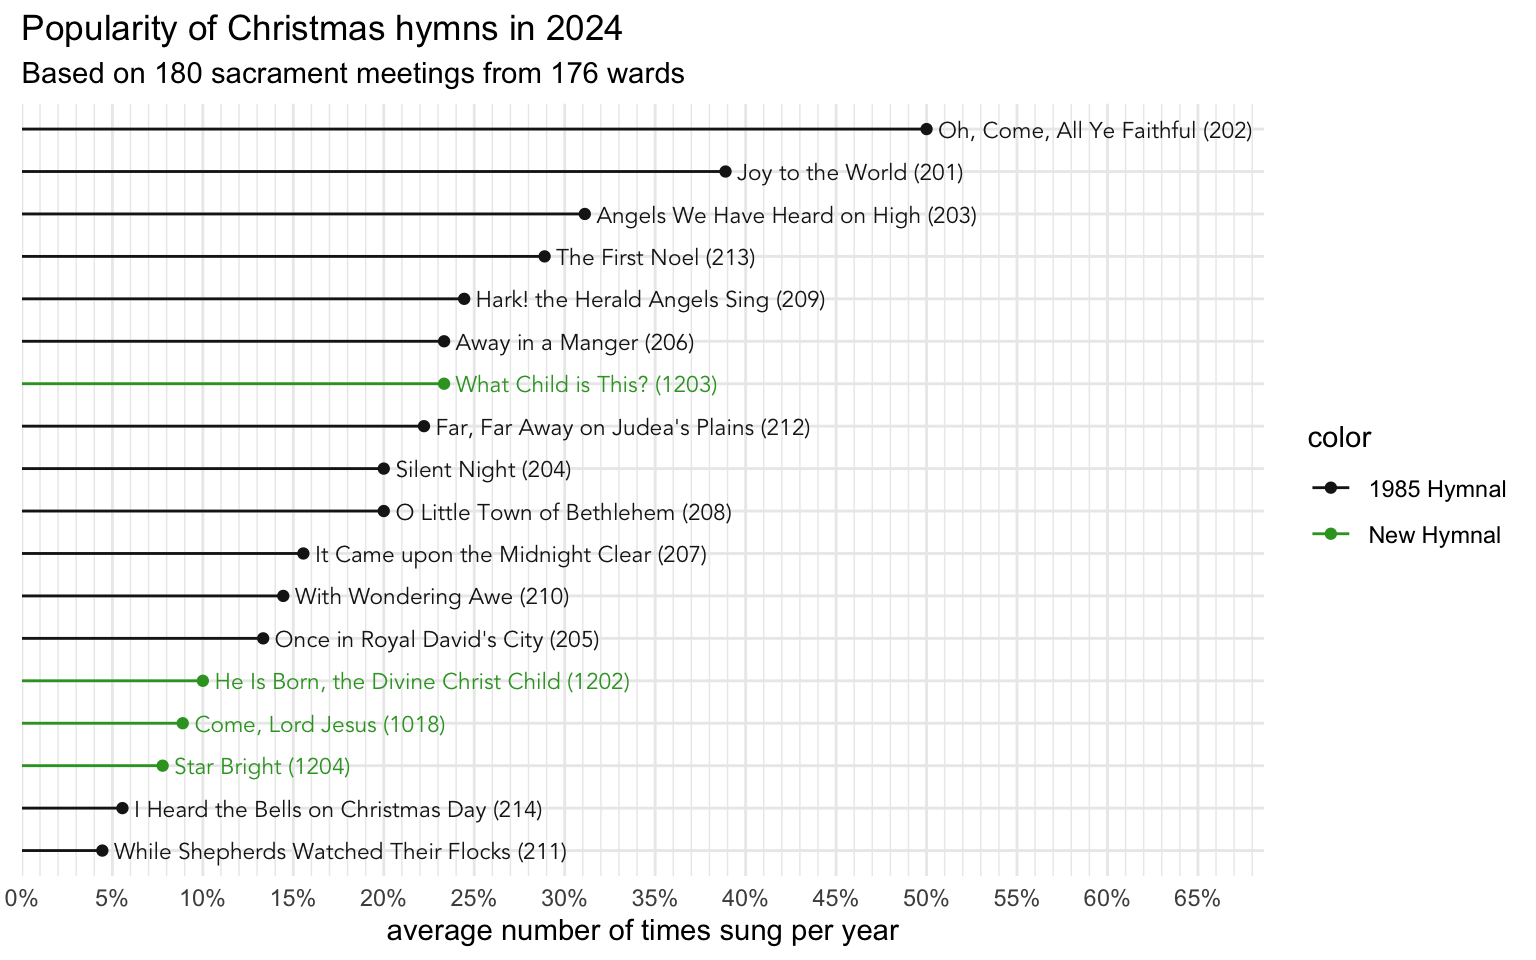
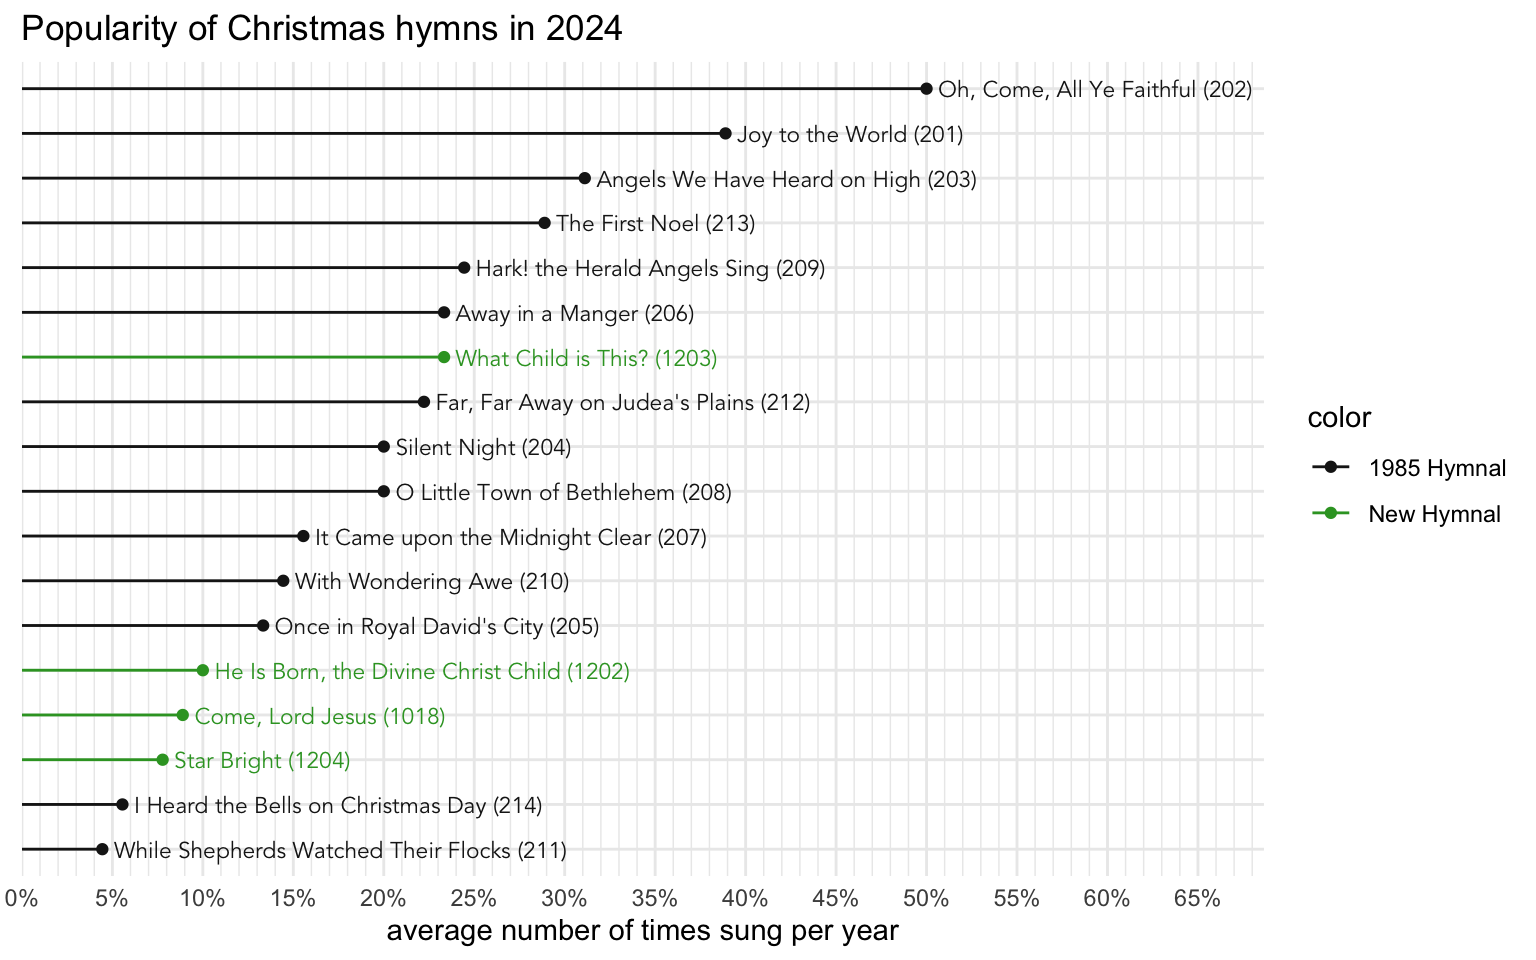
removed subtitle to hide discrepency in wards vs meetings

Changed region(s): [[0.0, 0.0625, 0.8125, 0.9062], [0.8438, 0.4062, 1.0, 0.5625], [0.0, 0.0625, 0.5, 0.0938]]

diff --git a/docs/posts/christmas2024/index.html b/docs/posts/christmas2024/index.html
@@ -231,23 +231,23 @@ gtag('config', 'G-SG4E42NZ2F', { 'anonymize_ip': true});
 <p>The following table shows the same data plotted above but in table format so you can see the exact numbers.</p>
 <div class="cell">
 <div class="cell-output-display">
-<div id="qowdzsawyw" style="padding-left:0px;padding-right:0px;padding-top:10px;padding-bottom:10px;overflow-x:auto;overflow-y:auto;width:auto;height:auto;">
-<style>#qowdzsawyw table {
+<div id="gnwmqzwmxq" style="padding-left:0px;padding-right:0px;padding-top:10px;padding-bottom:10px;overflow-x:auto;overflow-y:auto;width:auto;height:auto;">
+<style>#gnwmqzwmxq table {
   font-family: system-ui, 'Segoe UI', Roboto, Helvetica, Arial, sans-serif, 'Apple Color Emoji', 'Segoe UI Emoji', 'Segoe UI Symbol', 'Noto Color Emoji';
   -webkit-font-smoothing: antialiased;
   -moz-osx-font-smoothing: grayscale;
 }
 
-#qowdzsawyw thead, #qowdzsawyw tbody, #qowdzsawyw tfoot, #qowdzsawyw tr, #qowdzsawyw td, #qowdzsawyw th {
+#gnwmqzwmxq thead, #gnwmqzwmxq tbody, #gnwmqzwmxq tfoot, #gnwmqzwmxq tr, #gnwmqzwmxq td, #gnwmqzwmxq th {
   border-style: none;
 }
 
-#qowdzsawyw p {
+#gnwmqzwmxq p {
   margin: 0;
   padding: 0;
 }
 
-#qowdzsawyw .gt_table {
+#gnwmqzwmxq .gt_table {
   display: table;
   border-collapse: collapse;
   line-height: normal;
@@ -273,12 +273,12 @@ gtag('config', 'G-SG4E42NZ2F', { 'anonymize_ip': true});
   border-left-color: #D3D3D3;
 }
 
-#qowdzsawyw .gt_caption {
+#gnwmqzwmxq .gt_caption {
   padding-top: 4px;
   padding-bottom: 4px;
 }
 
-#qowdzsawyw .gt_title {
+#gnwmqzwmxq .gt_title {
   color: #333333;
   font-size: 125%;
   font-weight: initial;
@@ -290,7 +290,7 @@ gtag('config', 'G-SG4E42NZ2F', { 'anonymize_ip': true});
   border-bottom-width: 0;
 }
 
-#qowdzsawyw .gt_subtitle {
+#gnwmqzwmxq .gt_subtitle {
   color: #333333;
   font-size: 85%;
   font-weight: initial;
@@ -302,7 +302,7 @@ gtag('config', 'G-SG4E42NZ2F', { 'anonymize_ip': true});
   border-top-width: 0;
 }
 
-#qowdzsawyw .gt_heading {
+#gnwmqzwmxq .gt_heading {
   background-color: #FFFFFF;
   text-align: center;
   border-bottom-color: #FFFFFF;
@@ -314,13 +314,13 @@ gtag('config', 'G-SG4E42NZ2F', { 'anonymize_ip': true});
   border-right-color: #D3D3D3;
 }
 
-#qowdzsawyw .gt_bottom_border {
+#gnwmqzwmxq .gt_bottom_border {
   border-bottom-style: solid;
   border-bottom-width: 2px;
   border-bottom-color: #D3D3D3;
 }
 
-#qowdzsawyw .gt_col_headings {
+#gnwmqzwmxq .gt_col_headings {
   border-top-style: solid;
   border-top-width: 2px;
   border-top-color: #D3D3D3;
@@ -335,7 +335,7 @@ gtag('config', 'G-SG4E42NZ2F', { 'anonymize_ip': true});
   border-right-color: #D3D3D3;
 }
 
-#qowdzsawyw .gt_col_heading {
+#gnwmqzwmxq .gt_col_heading {
   color: #333333;
   background-color: #FFFFFF;
   font-size: 100%;
@@ -355,7 +355,7 @@ gtag('config', 'G-SG4E42NZ2F', { 'anonymize_ip': true});
   overflow-x: hidden;
 }
 
-#qowdzsawyw .gt_column_spanner_outer {
+#gnwmqzwmxq .gt_column_spanner_outer {
   color: #333333;
   background-color: #FFFFFF;
   font-size: 100%;
@@ -367,15 +367,15 @@ gtag('config', 'G-SG4E42NZ2F', { 'anonymize_ip': true});
   padding-right: 4px;
 }
 
-#qowdzsawyw .gt_column_spanner_outer:first-child {
+#gnwmqzwmxq .gt_column_spanner_outer:first-child {
   padding-left: 0;
 }
 
-#qowdzsawyw .gt_column_spanner_outer:last-child {
+#gnwmqzwmxq .gt_column_spanner_outer:last-child {
   padding-right: 0;
 }
 
-#qowdzsawyw .gt_column_spanner {
+#gnwmqzwmxq .gt_column_spanner {
   border-bottom-style: solid;
   border-bottom-width: 2px;
   border-bottom-color: #D3D3D3;
@@ -387,11 +387,11 @@ gtag('config', 'G-SG4E42NZ2F', { 'anonymize_ip': true});
   width: 100%;
 }
 
-#qowdzsawyw .gt_spanner_row {
+#gnwmqzwmxq .gt_spanner_row {
   border-bottom-style: hidden;
 }
 
-#qowdzsawyw .gt_group_heading {
+#gnwmqzwmxq .gt_group_heading {
   padding-top: 8px;
   padding-bottom: 8px;
   padding-left: 5px;
@@ -417,7 +417,7 @@ gtag('config', 'G-SG4E42NZ2F', { 'anonymize_ip': true});
   text-align: left;
 }
 
-#qowdzsawyw .gt_empty_group_heading {
+#gnwmqzwmxq .gt_empty_group_heading {
   padding: 0.5px;
   color: #333333;
   background-color: #FFFFFF;
@@ -432,15 +432,15 @@ gtag('config', 'G-SG4E42NZ2F', { 'anonymize_ip': true});
   vertical-align: middle;
 }
 
-#qowdzsawyw .gt_from_md > :first-child {
+#gnwmqzwmxq .gt_from_md > :first-child {
   margin-top: 0;
 }
 
-#qowdzsawyw .gt_from_md > :last-child {
+#gnwmqzwmxq .gt_from_md > :last-child {
   margin-bottom: 0;
 }
 
-#qowdzsawyw .gt_row {
+#gnwmqzwmxq .gt_row {
   padding-top: 8px;
   padding-bottom: 8px;
   padding-left: 5px;
@@ -459,7 +459,7 @@ gtag('config', 'G-SG4E42NZ2F', { 'anonymize_ip': true});
   overflow-x: hidden;
 }
 
-#qowdzsawyw .gt_stub {
+#gnwmqzwmxq .gt_stub {
   color: #333333;
   background-color: #FFFFFF;
   font-size: 100%;
@@ -472,7 +472,7 @@ gtag('config', 'G-SG4E42NZ2F', { 'anonymize_ip': true});
   padding-right: 5px;
 }
 
-#qowdzsawyw .gt_stub_row_group {
+#gnwmqzwmxq .gt_stub_row_group {
   color: #333333;
   background-color: #FFFFFF;
   font-size: 100%;
@@ -486,15 +486,15 @@ gtag('config', 'G-SG4E42NZ2F', { 'anonymize_ip': true});
   vertical-align: top;
 }
 
-#qowdzsawyw .gt_row_group_first td {
+#gnwmqzwmxq .gt_row_group_first td {
   border-top-width: 2px;
 }
 
-#qowdzsawyw .gt_row_group_first th {
+#gnwmqzwmxq .gt_row_group_first th {
   border-top-width: 2px;
 }
 
-#qowdzsawyw .gt_summary_row {
+#gnwmqzwmxq .gt_summary_row {
   color: #333333;
   background-color: #FFFFFF;
   text-transform: inherit;
@@ -504,16 +504,16 @@ gtag('config', 'G-SG4E42NZ2F', { 'anonymize_ip': true});
   padding-right: 5px;
 }
 
-#qowdzsawyw .gt_first_summary_row {
+#gnwmqzwmxq .gt_first_summary_row {
   border-top-style: solid;
   border-top-color: #D3D3D3;
 }
 
-#qowdzsawyw .gt_first_summary_row.thick {
+#gnwmqzwmxq .gt_first_summary_row.thick {
   border-top-width: 2px;
 }
 
-#qowdzsawyw .gt_last_summary_row {
+#gnwmqzwmxq .gt_last_summary_row {
   padding-top: 8px;
   padding-bottom: 8px;
   padding-left: 5px;
@@ -523,7 +523,7 @@ gtag('config', 'G-SG4E42NZ2F', { 'anonymize_ip': true});
   border-bottom-color: #D3D3D3;
 }
 
-#qowdzsawyw .gt_grand_summary_row {
+#gnwmqzwmxq .gt_grand_summary_row {
   color: #333333;
   background-color: #FFFFFF;
   text-transform: inherit;
@@ -533,7 +533,7 @@ gtag('config', 'G-SG4E42NZ2F', { 'anonymize_ip': true});
   padding-right: 5px;
 }
 
-#qowdzsawyw .gt_first_grand_summary_row {
+#gnwmqzwmxq .gt_first_grand_summary_row {
   padding-top: 8px;
   padding-bottom: 8px;
   padding-left: 5px;
@@ -543,7 +543,7 @@ gtag('config', 'G-SG4E42NZ2F', { 'anonymize_ip': true});
   border-top-color: #D3D3D3;
 }
 
-#qowdzsawyw .gt_last_grand_summary_row_top {
+#gnwmqzwmxq .gt_last_grand_summary_row_top {
   padding-top: 8px;
   padding-bottom: 8px;
   padding-left: 5px;
@@ -553,11 +553,11 @@ gtag('config', 'G-SG4E42NZ2F', { 'anonymize_ip': true});
   border-bottom-color: #D3D3D3;
 }
 
-#qowdzsawyw .gt_striped {
+#gnwmqzwmxq .gt_striped {
   background-color: rgba(128, 128, 128, 0.05);
 }
 
-#qowdzsawyw .gt_table_body {
+#gnwmqzwmxq .gt_table_body {
   border-top-style: solid;
   border-top-width: 2px;
   border-top-color: #D3D3D3;
@@ -566,7 +566,7 @@ gtag('config', 'G-SG4E42NZ2F', { 'anonymize_ip': true});
   border-bottom-color: #D3D3D3;
 }
 
-#qowdzsawyw .gt_footnotes {
+#gnwmqzwmxq .gt_footnotes {
   color: #333333;
   background-color: #FFFFFF;
   border-bottom-style: none;
@@ -580,7 +580,7 @@ gtag('config', 'G-SG4E42NZ2F', { 'anonymize_ip': true});
   border-right-color: #D3D3D3;
 }
 
-#qowdzsawyw .gt_footnote {
+#gnwmqzwmxq .gt_footnote {
   margin: 0px;
   font-size: 90%;
   padding-top: 4px;
@@ -589,7 +589,7 @@ gtag('config', 'G-SG4E42NZ2F', { 'anonymize_ip': true});
   padding-right: 5px;
 }
 
-#qowdzsawyw .gt_sourcenotes {
+#gnwmqzwmxq .gt_sourcenotes {
   color: #333333;
   background-color: #FFFFFF;
   border-bottom-style: none;
@@ -603,7 +603,7 @@ gtag('config', 'G-SG4E42NZ2F', { 'anonymize_ip': true});
   border-right-color: #D3D3D3;
 }
 
-#qowdzsawyw .gt_sourcenote {
+#gnwmqzwmxq .gt_sourcenote {
   font-size: 90%;
   padding-top: 4px;
   padding-bottom: 4px;
@@ -611,63 +611,63 @@ gtag('config', 'G-SG4E42NZ2F', { 'anonymize_ip': true});
   padding-right: 5px;
 }
 
-#qowdzsawyw .gt_left {
+#gnwmqzwmxq .gt_left {
   text-align: left;
 }
 
-#qowdzsawyw .gt_center {
+#gnwmqzwmxq .gt_center {
   text-align: center;
 }
 
-#qowdzsawyw .gt_right {
+#gnwmqzwmxq .gt_right {
   text-align: right;
   font-variant-numeric: tabular-nums;
 }
 
-#qowdzsawyw .gt_font_normal {
+#gnwmqzwmxq .gt_font_normal {
   font-weight: normal;
 }
 
-#qowdzsawyw .gt_font_bold {
+#gnwmqzwmxq .gt_font_bold {
   font-weight: bold;
 }
 
-#qowdzsawyw .gt_font_italic {
+#gnwmqzwmxq .gt_font_italic {
   font-style: italic;
 }
 
-#qowdzsawyw .gt_super {
+#gnwmqzwmxq .gt_super {
   font-size: 65%;
 }
 
-#qowdzsawyw .gt_footnote_marks {
+#gnwmqzwmxq .gt_footnote_marks {
   font-size: 75%;
   vertical-align: 0.4em;
   position: initial;
 }
 
-#qowdzsawyw .gt_asterisk {
+#gnwmqzwmxq .gt_asterisk {
   font-size: 100%;
   vertical-align: 0;
 }
 
-#qowdzsawyw .gt_indent_1 {
+#gnwmqzwmxq .gt_indent_1 {
   text-indent: 5px;
 }
 
-#qowdzsawyw .gt_indent_2 {
+#gnwmqzwmxq .gt_indent_2 {
   text-indent: 10px;
 }
 
-#qowdzsawyw .gt_indent_3 {
+#gnwmqzwmxq .gt_indent_3 {
   text-indent: 15px;
 }
 
-#qowdzsawyw .gt_indent_4 {
+#gnwmqzwmxq .gt_indent_4 {
   text-indent: 20px;
 }
 
-#qowdzsawyw .gt_indent_5 {
+#gnwmqzwmxq .gt_indent_5 {
   text-indent: 25px;
 }
 </style>

diff --git a/docs/findings.html b/docs/findings.html
@@ -1043,7 +1043,7 @@ Joey Stanley
 </a>
 </div>
 </div>
-<div class="quarto-post image-right" data-index="22" data-categories="holidays" data-listing-date-sort="1701673200000" data-listing-file-modified-sort="1733704572507" data-listing-date-modified-sort="NaN" data-listing-reading-time-sort="11" data-listing-word-count-sort="2143">
+<div class="quarto-post image-right" data-index="22" data-categories="holidays" data-listing-date-sort="1701673200000" data-listing-file-modified-sort="1733704786757" data-listing-date-modified-sort="NaN" data-listing-reading-time-sort="11" data-listing-word-count-sort="2149">
 <div class="thumbnail">
 <p><a href="./posts/christmas2024/index.html" class="no-external"></a></p><a href="./posts/christmas2024/index.html" class="no-external">
 <p class="card-img-top"><img src="posts/christmas2024/index_files/figure-html/unnamed-chunk-5-1.png"  class="thumbnail-image card-img"/></p>
